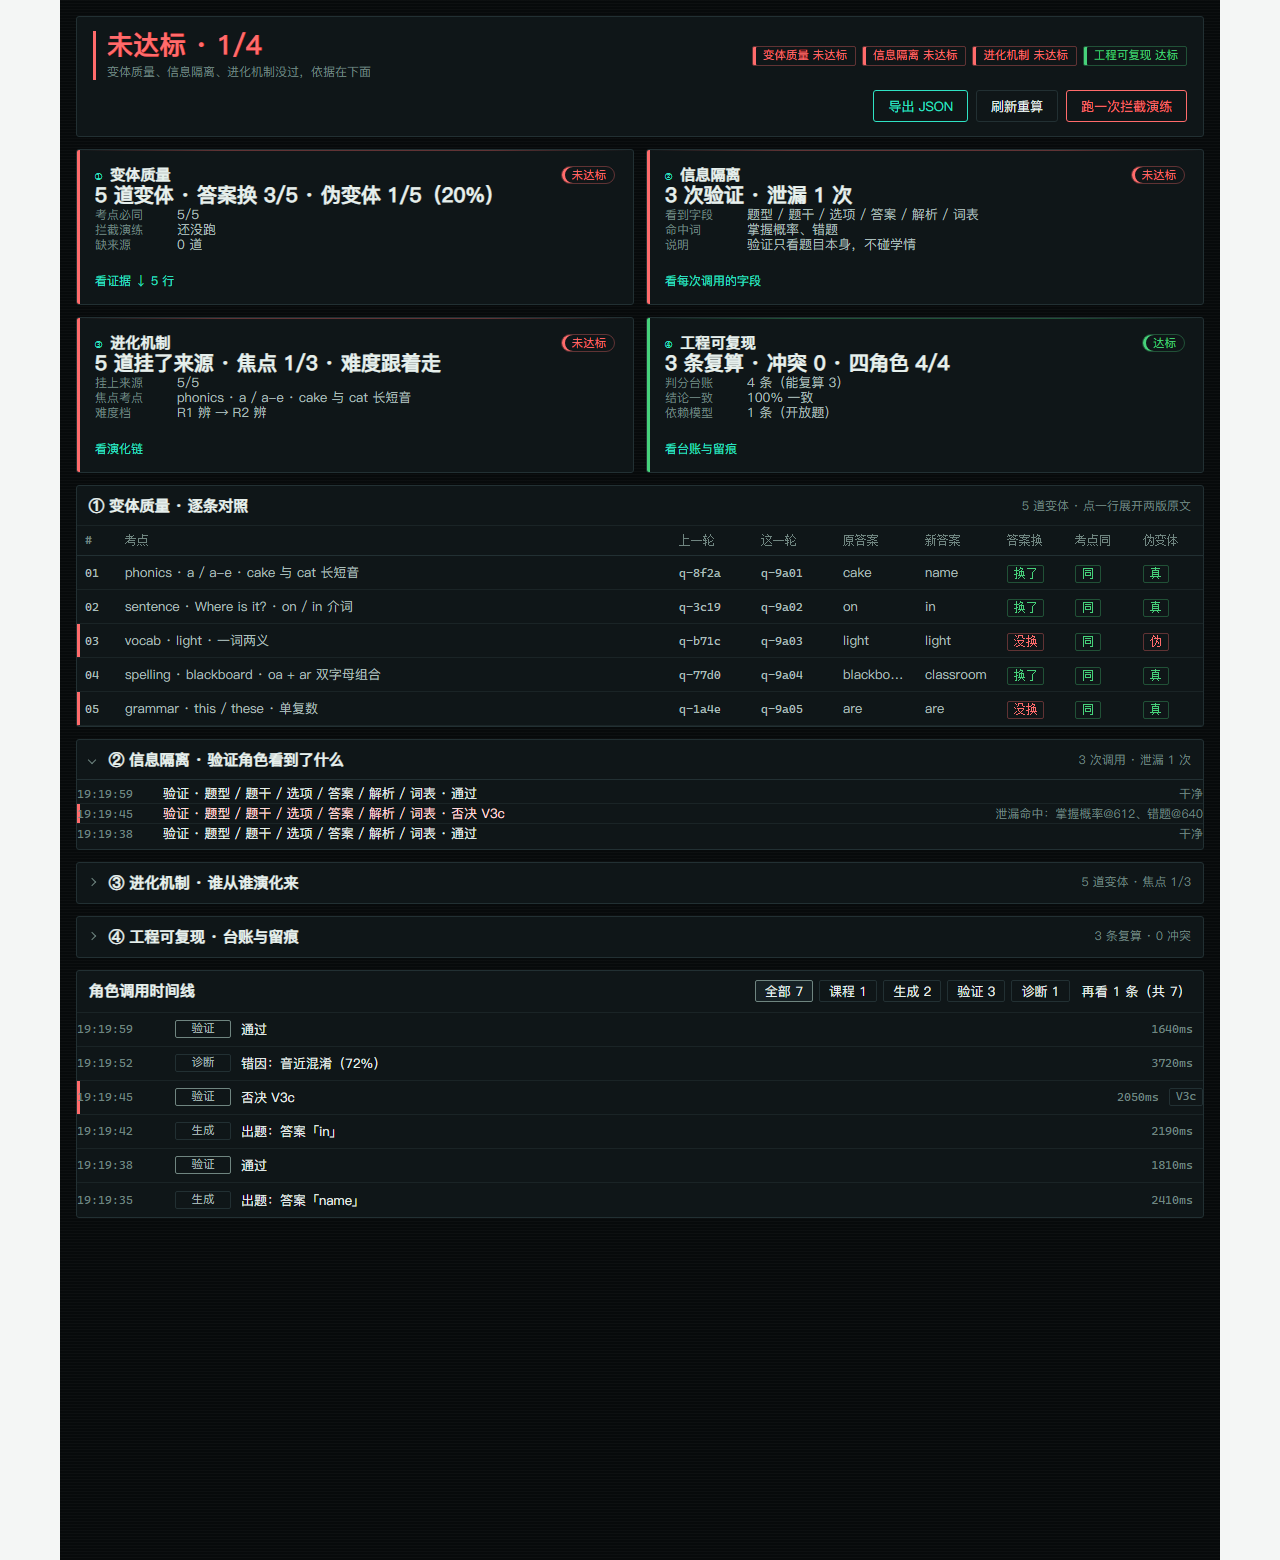
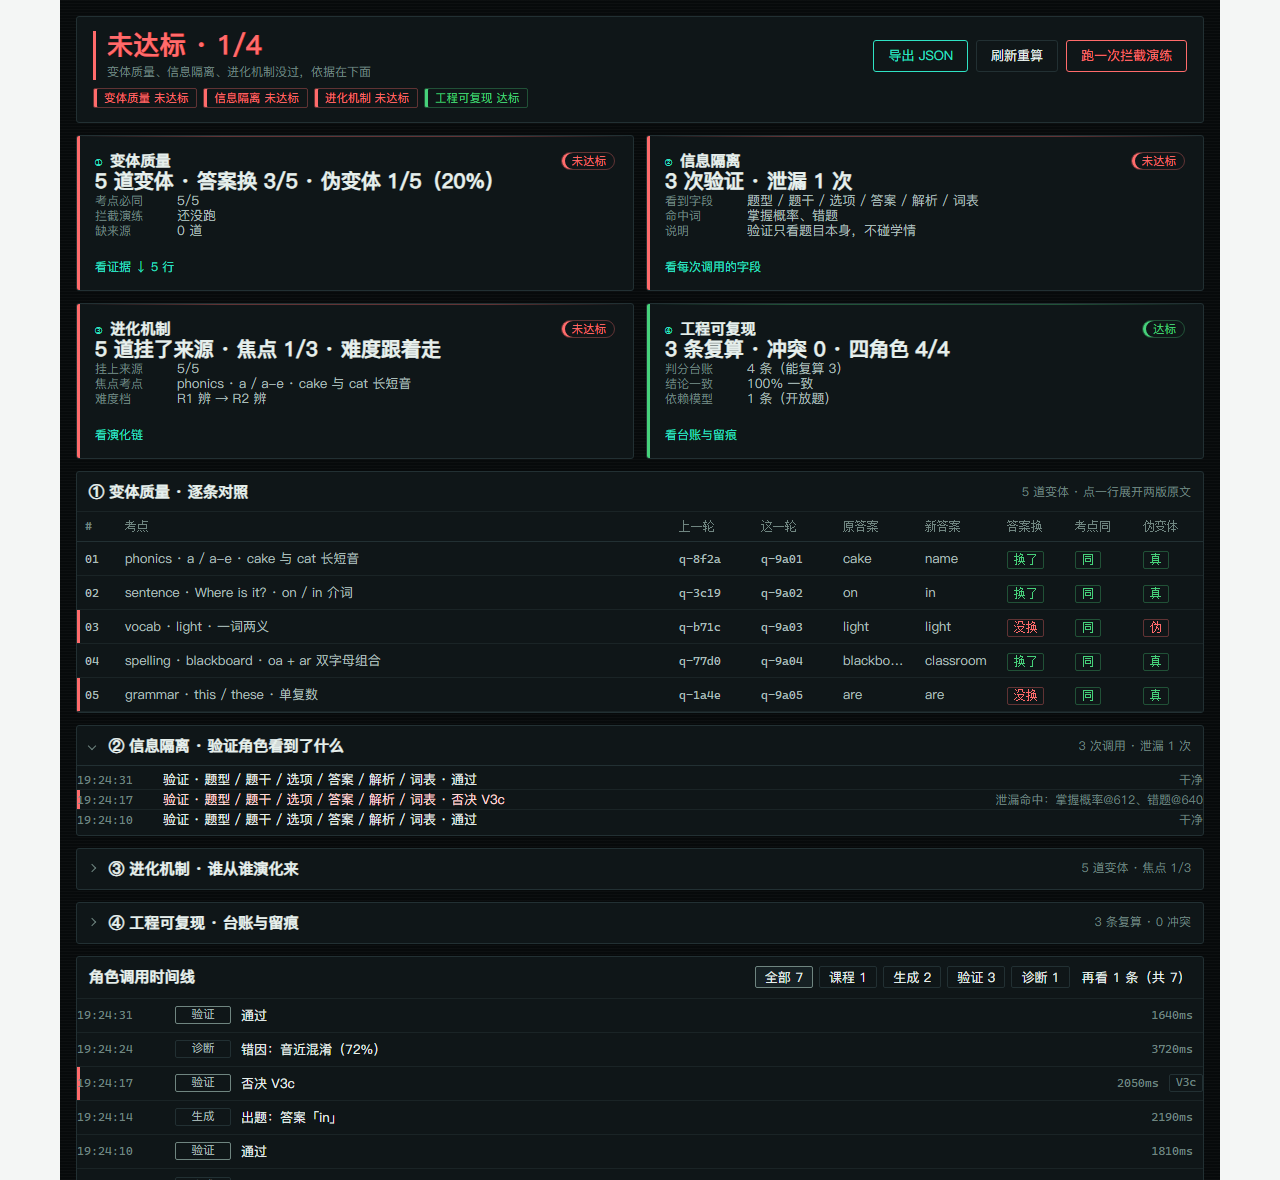
补审计台设计说明文档；修证据行折行与总判条排布

diff --git a/src/dev/audit.css b/src/dev/audit.css
@@ -888,3 +888,39 @@
   .audit-table { min-width: 0; }
   .audit-fold:not([open]) > summary::before { display: none; }
 }
+
+/* ============================================================
+   集成补充（主理人按真实渲染结果补的，2026-11-12）
+   1) 卡内证据值单行省略：不加这几条，长考点名会折成两行，
+      把第三行证据顶出卡底、压住「看证据」链接。
+   2) 宽屏把总判条改成两行栅格：徽章独占一行，
+      不跟「未达标 · 0/4」与三个按钮抢宽度。
+   ============================================================ */
+.audit-evidence dt {
+  flex: 0 0 76px;
+  white-space: nowrap;
+}
+.audit-evidence dd {
+  flex: 1 1 auto;
+  min-width: 0;               /* flex 子项默认 min-width:auto，不置 0 则省略号不生效 */
+  white-space: nowrap;
+  overflow: hidden;
+  text-overflow: ellipsis;
+}
+.audit-live[hidden] { display: none; }
+
+@media (min-width: 900px) {
+  .audit-top {
+    display: grid;
+    grid-template-columns: minmax(0, 1fr) auto;
+    grid-template-areas:
+      "verdict tools"
+      "badges  badges";
+    align-items: center;
+    row-gap: 8px;
+  }
+  .audit-verdict { grid-area: verdict; }
+  .audit-tools { grid-area: tools; }
+  .audit-vbadges { grid-area: badges; }
+  .audit-live { grid-column: 1 / -1; }
+}

diff --git a/tools/shot-audit.js b/tools/shot-audit.js
@@ -174,7 +174,7 @@ server.listen(PORT, '127.0.0.1', function () {
   const child = spawn(edge, [
     '--headless=new', '--disable-gpu', '--no-first-run', '--no-default-browser-check',
     '--disable-extensions', '--hide-scrollbars', '--force-device-scale-factor=1',
-    '--window-size=1280,1560',
+    '--window-size=1280,1180',
     '--screenshot=' + OUT,
     '--virtual-time-budget=4000',
     '--user-data-dir=' + profile,

diff --git a/docs/AUDIT-CONSOLE.md b/docs/AUDIT-CONSOLE.md
@@ -1,0 +1,109 @@
+# 审计台设计说明（05 页签）
+
+> 这份文档是「审计台」的设计决议与实现落点。评审想知道**凭什么说达标/不达标**时看这里；
+> 改样式或加指标前先读一遍，避免把已经讨论过的取舍又改回去。
+
+## 一、这个界面给谁用
+
+给**开发者与评审**，不是给学生。学生端是浅色的 01–04 页签，审计台是深色作用域（`.audit-root`），不参与出题与判分。
+
+它只回答一个问题：**这套 MVP 的四条达标线，现在过没过。**
+过没过由 `src/core/audit.js` 算，界面只显示。渲染层不判断达标，否则导出 JSON 与界面会各说一套。
+
+## 二、总判四态（优先级从上到下）
+
+| 状态 | 什么时候 | 文案 | 颜色 |
+|---|---|---|---|
+| 未达标 | 任一项算出 `false` | `未达标 · n/4`；若还没跑全：`已跑 n/4 · f 项未达标` | 红 |
+| 还没跑够 | 没有 false，但只算出 1–3 项 | `还没跑够 · n/4` | 黄 |
+| 达标 | 四项全算出且全过 | `达标 · 4/4` | 绿 |
+| 无数据 | 一项都算不出 | `还没跑够 · 0/4` | 灰 |
+
+**红线不染绿**：未达标时只把总判文字与左竖条染红，四指标迷你徽章各用各的状态色——否则评审会以为是「四项都挂」。
+
+## 三、视觉 token（`src/dev/audit.css`）
+
+| 变量 | 值 | 用途 |
+|---|---|---|
+| `--ab-bg` | `#070a0b` | 页底（含极淡扫描线纹理） |
+| `--ab-card` | `#0f1618` | 指标卡 / 表格底 |
+| `--ab-raise` | `#162124` | 卡内抬升层、展开区 |
+| `--ab-line` | `#223033` | 1px 细边框、表头下沿 |
+| `--ab-fg` | `#e6efec` | 主文字 |
+| `--ab-fg2` | `#a9bdba` | 次文字（证据值） |
+| `--ab-fg3` | `#6f8580` | 弱文字（标签、表头） |
+| `--ab-cyan` | `#2fe3c4` | 唯一强调色：序号、链接、焦点环、主按钮描边 |
+| `--ab-pass` | `#46d17a` | 达标 |
+| `--ab-fail` | `#ff6b6b` | 未达标 |
+| `--ab-wait` | `#f2b23c` | 待验 |
+| `--ab-none` | `#8b9c98` | 无数据 |
+
+字号六级：26（总判）/ 20（卡结论）/ 15（块标题）/ 13（正文）/ 12（辅助）/ 11.5（等宽：编号、耗时、条款号）。
+字体：中文 `"Source Han Sans SC","PingFang SC","Microsoft YaHei"`；等宽 `ui-monospace,"Cascadia Mono",Consolas`。
+
+间距：卡片内边距 22/18/12，卡间距 12，表格行高 34（≤720 时 44），容器最大宽 1160。
+
+## 四、指标卡：固定三段
+
+```
+卡头   [①|序号] [标题]                          [状态徽章]
+结论   一句 ≤20 字，必须带分子分母
+证据   三行，每行 = 灰标签(76px) + 值(13px，单行省略)
+卡底   看证据 ↓ n 行（可点，跳到下面的明细区）
+```
+
+三条规矩：
+1. **卡高固定 156px**，`display:grid` 四行（22/28/54/18）。不固定的话 2×2 里两张卡会错开，评审读不出对齐关系。
+2. **证据固定三行**。第四行会被裁掉；要加信息先砍一条旧的。
+3. **状态不只靠颜色**：徽章有文字 + 左竖条，卡片有左缘竖条，表行/时间线行有左缘条。
+
+卡内文案模板（照这个句式写，别自由发挥）：
+
+| 卡 | 结论句 | 证据三行 |
+|---|---|---|
+| ① 变体质量 | `5 道变体 · 答案换 3/5 · 伪变体 1/5（20%）` | 考点必同 / 拦截演练 / 缺来源 |
+| ② 信息隔离 | `3 次验证 · 泄漏 1 次` | 看到字段 / 命中词 / 判据 |
+| ③ 进化机制 | `5 道挂了来源 · 焦点 1/3 · 难度没跟上` | 挂上来源 / 焦点考点 / 难度档 |
+| ④ 工程可复现 | `3 条复算 · 冲突 0 · 四角色 4/4` | 判分台账 / 结论一致 / 依赖模型 |
+
+## 五、明细区
+
+- **变体对照表**（全宽独立块）：`# / 考点 / 上一轮 / 这一轮 / 原答案 / 新答案 / 答案换 / 考点同 / 伪变体`。
+  降档：≥1125 全列；1024 起隐藏两个 id 列；<1024 再隐藏两个答案列（保留判定列，永不横滚）。
+  点一行展开两版题干；缺 parent 的行排最前并标红。
+- **②③④ 用折叠块**（`<details>`），②默认展开（最容易踩线），③④默认收起。标题右侧带一句计数。
+- **时间线**：默认 6 条，可按角色筛选（全部/课程/生成/验证/诊断），「再看 n 条」展开。一行 = 时间 / 角色 / 结论一句话 / 耗时 / 条款号。点一行看返回摘要。
+
+## 六、动作
+
+| 按钮 | 主次 | 行为 | 反馈 |
+|---|---|---|---|
+| 导出 JSON | 主（青绿描边） | 结论 + 逐条证据 + 台账 + 四角色留痕 | 条内一行「已导出 audit-xxx.json（128 KB）」 |
+| 刷新重算 | 次 | 按当前存档重算 | 条内一行「已按当前存档重算」 |
+| 跑一次拦截演练 | 危险（红描边） | 塞 2 道坏题（超纲 / 答案不在选项里），先过代码闸再问验证角色 | 执行中进度一句话；结束「2/2 拦住」或「有坏题混进来了」 |
+
+## 七、空态文案（不许写「暂无数据」）
+
+| 情形 | 写什么 |
+|---|---|
+| 一轮都没跑 | 跑两轮之后这里才有可判的东西：一轮出题 + 作答，再出第二轮 |
+| 跑了但没变体 | 第二轮还没出题，或者出的题没挂上第一轮的错题 |
+| 没有验证调用 | 这一轮还没跑过验证角色。跑一次出题，它每判一道题都会在这里留一行 |
+| 没有判分台账 | 还没判过分，不是没达标 |
+
+## 八、实现落点
+
+| 文件 | 负责什么 | 不许做什么 |
+|---|---|---|
+| `src/core/audit.js` | 四条线的判定（纯函数，可复算） | 不碰 DOM、不做文案 |
+| `src/dev/audit.js` | 渲染 + 导出 + 演练 + 增量收集留痕 | 不自己判达标 |
+| `src/dev/audit.css` | 深色作用域样式 | 不写全局 `body`/`*`/`:root` 重置 |
+| `src/core/llm.js` | 记录 system/user（内存，截 4000 字）+ 自增 id | 不把原文写进 localStorage |
+| `src/app.js` | `collectTraces()` 收留痕、切页签时重绘 | 不重复实现判定 |
+| `tools/shot-audit.js` | 样例存档 + 同渲染函数出图 | 不写真实存档 |
+
+## 九、面试/评审可能会问的三件事
+
+1. **为什么「没数据」不算达标？** 因为达标是个主张，得有证据。没跑过就报绿，等于把「还没验」当成「验过了」。
+2. **伪变体怎么判？** 把答案与三个选项词挖成占位符、去标点，剩下逐字比，完全相同才判伪。相似度算法在这里没用——同考点题天然相似，分数分不开「换场景」和「换人名」。
+3. **四角色留痕为什么不留原文？** 验证上下文里有题目、课程上下文里有学生作答，原文落盘等于又存了一份学情，反而成了新的泄漏面。隔离检查在调用当下做完，只落「命中哪个词、第几个字」。
